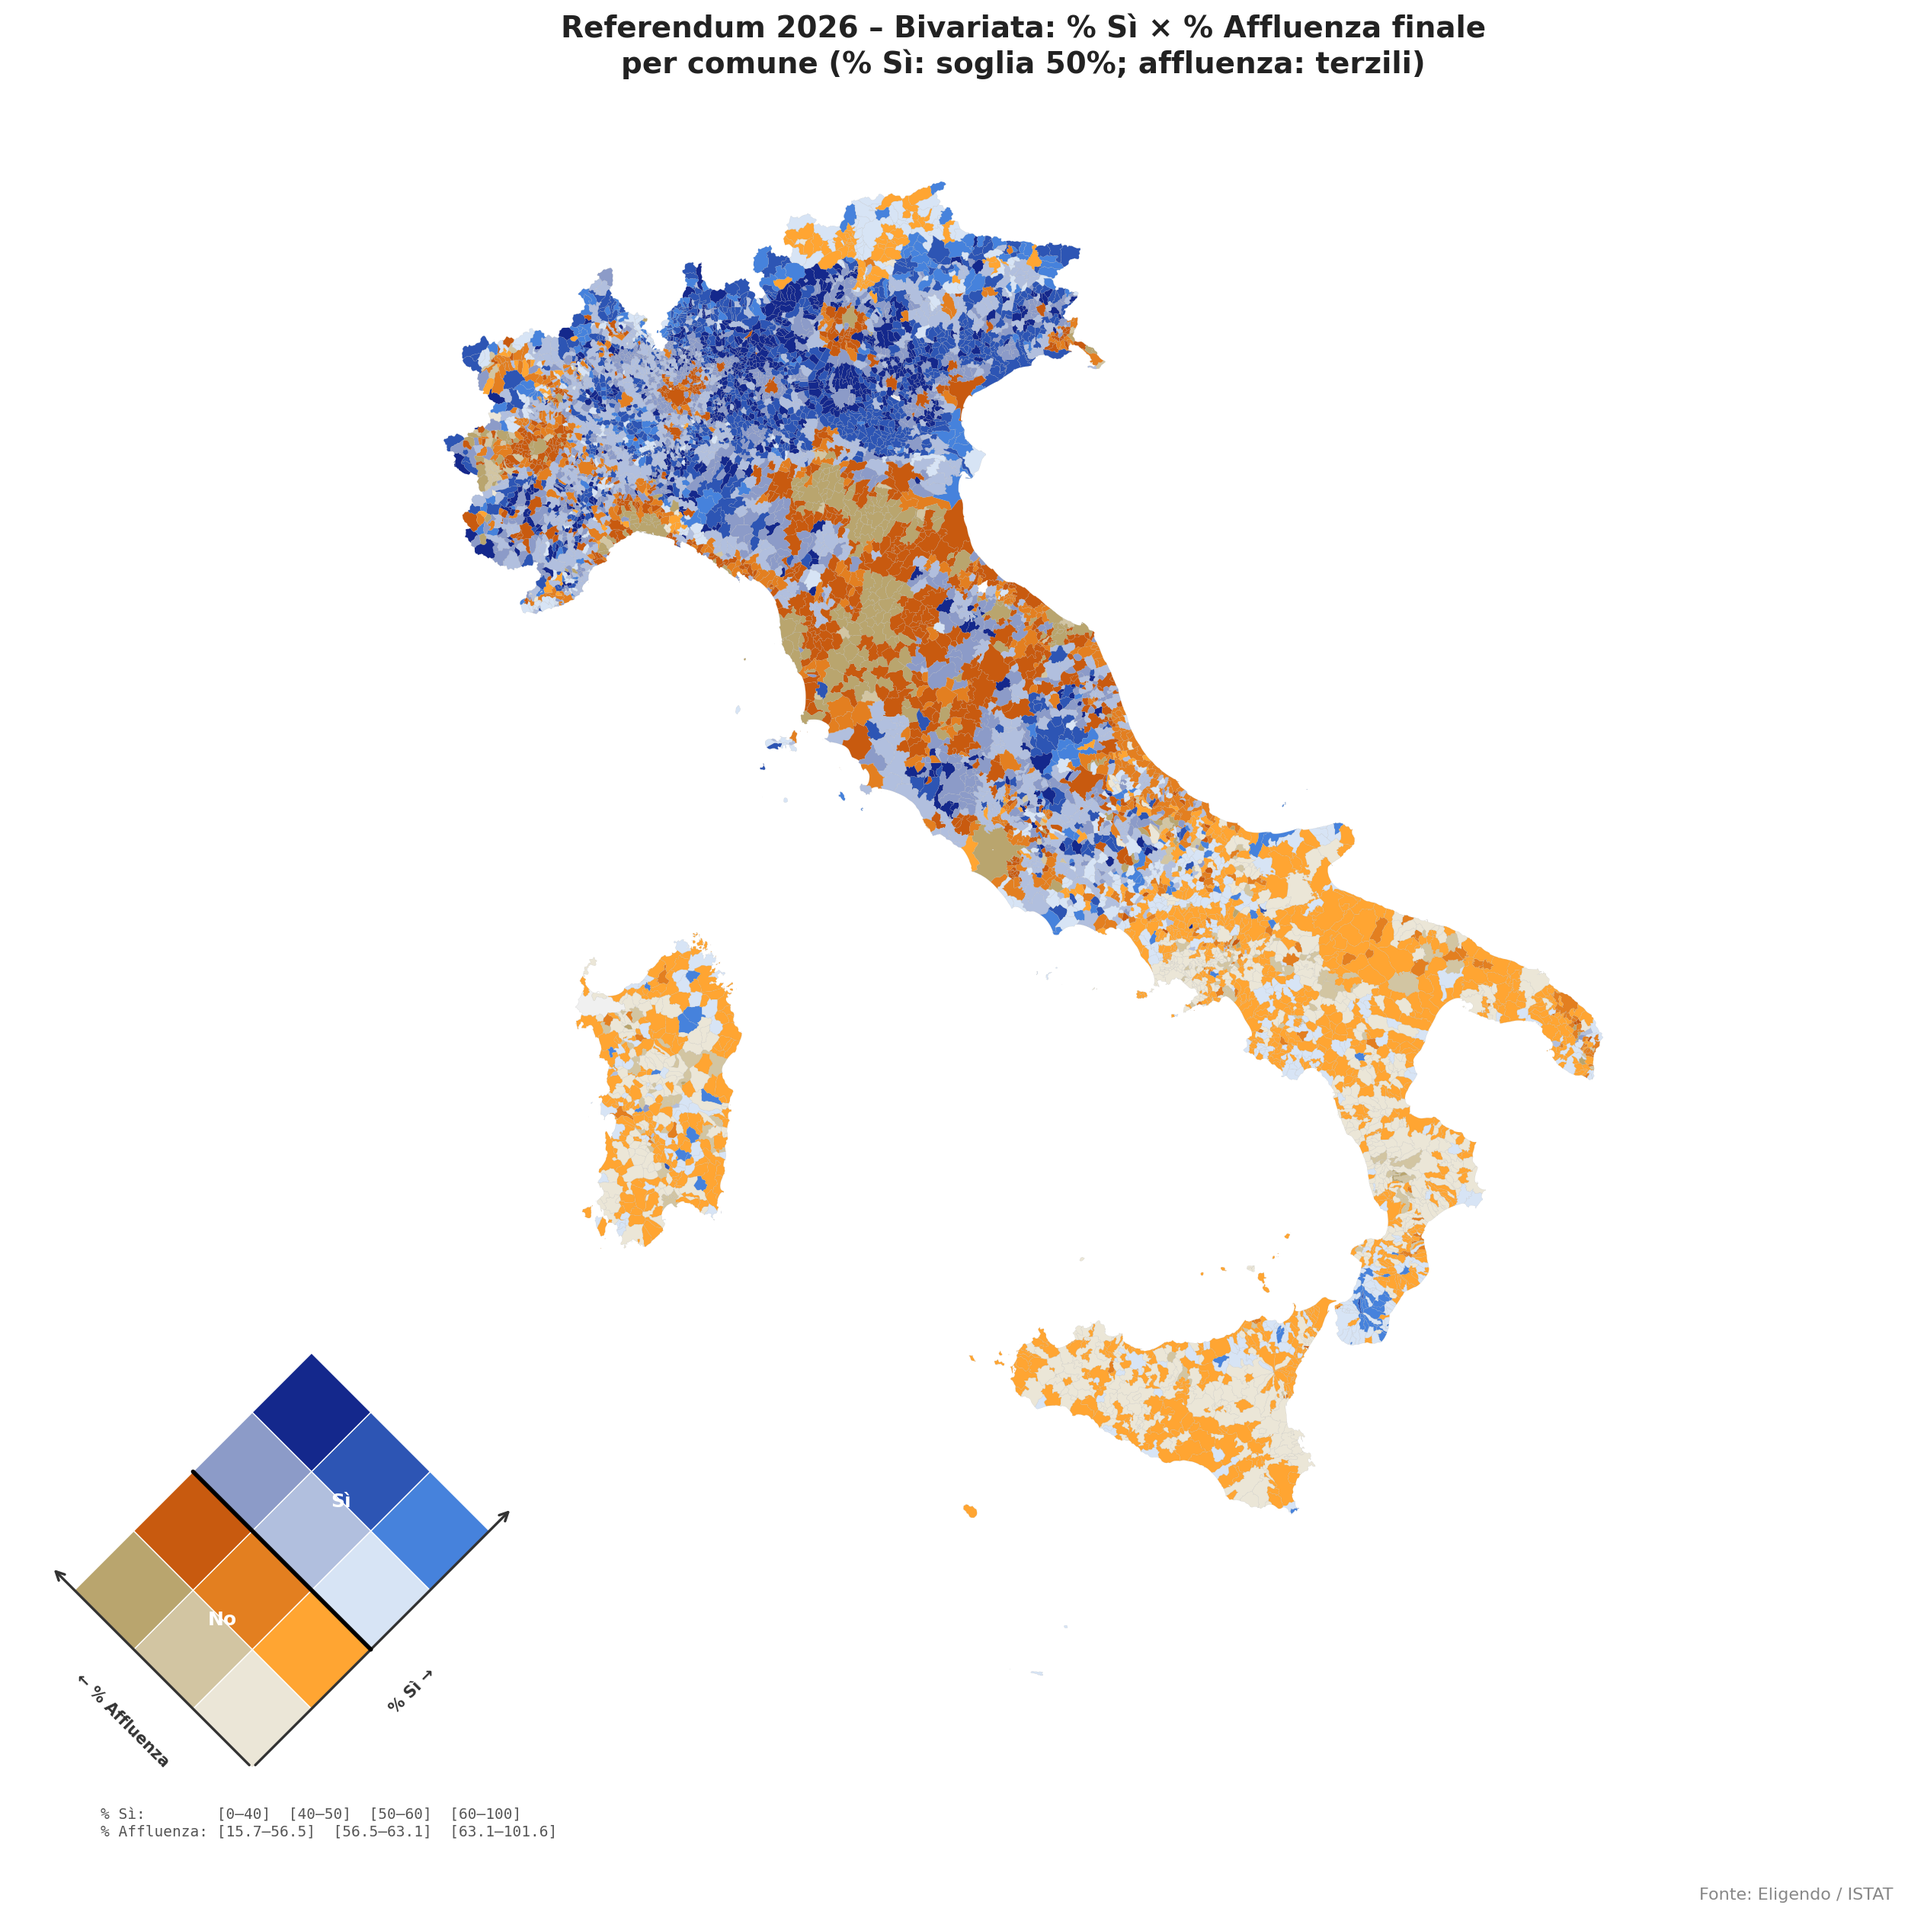
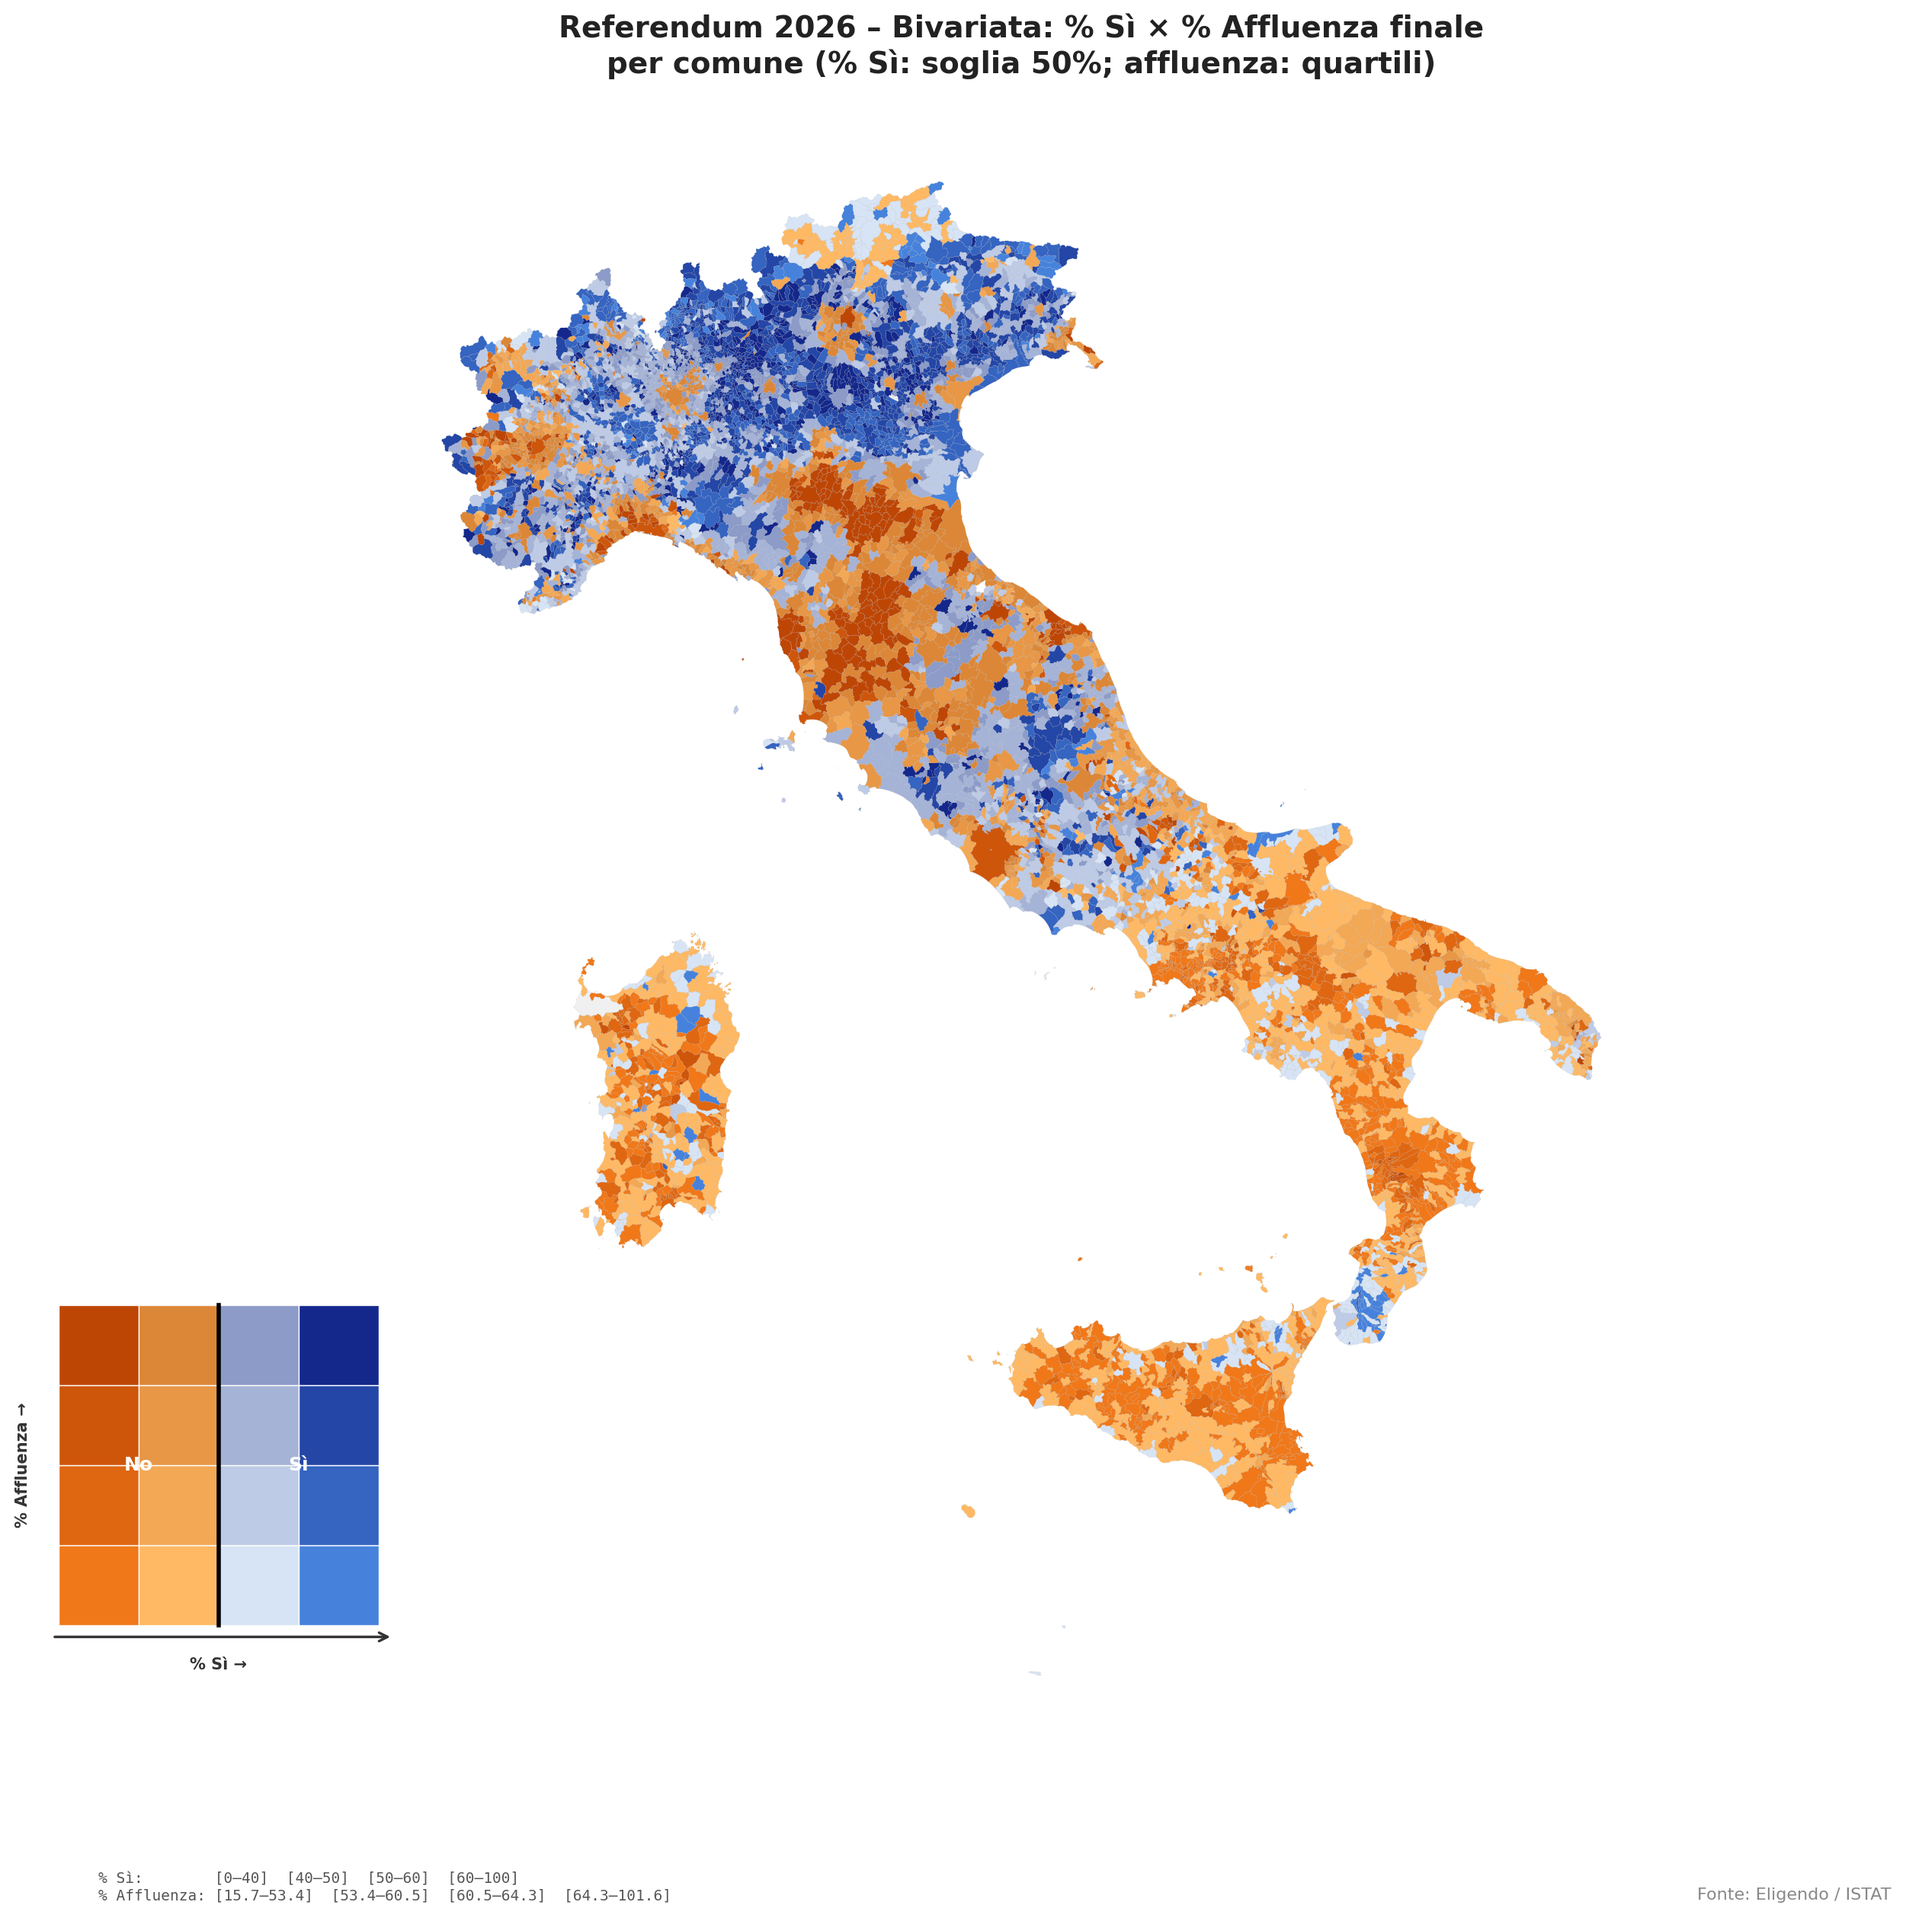
si50: legenda 4x4 ortogonale, No invertito, palette arancio
- N_VOT=4 (quartili affluenza)
- Legenda griglia allineata alla base
- No: ordine invertito (scuri fuori, chiari al centro)
- Palette No: toni arancio più saturi, no beige

diff --git a/mappe/bivariate/bivariate_map_si50.py b/mappe/bivariate/bivariate_map_si50.py
@@ -29,14 +29,14 @@ OUT      = pathlib.Path(__file__).parent / "bivariate_map_si50.png"
 N_SI      = 4
 BREAKS_SI = [0, 40, 50, 60, 100]
 
-# Classi % Affluenza: terzili
-N_VOT = 3
+# Classi % Affluenza: quartili
+N_VOT = 4
 
-# Palette "No" (i=0..1, % Sì < 50%): toni caldi giallo/arancio
-C_NO_00 = np.array([235, 230, 215])  # grigio caldo (basso si, bassa affl)
-C_NO_10 = np.array([255, 165,  50])  # arancio (alto si No, bassa affl)
-C_NO_01 = np.array([185, 165, 110])  # grigio scuro caldo (basso si, alta affl)
-C_NO_11 = np.array([200,  90,  15])  # arancio scuro (alto si No, alta affl)
+# Palette "No" (i=0..1, % Sì < 50%): toni caldi arancio
+C_NO_00 = np.array([255, 185, 100])  # arancio chiaro (basso si, bassa affl)
+C_NO_10 = np.array([240, 120,  25])  # arancio forte (alto si No, bassa affl)
+C_NO_01 = np.array([220, 135,  55])  # arancio medio (basso si, alta affl)
+C_NO_11 = np.array([190,  70,   5])  # arancio scuro (alto si No, alta affl)
 
 # Palette "Sì" (i=2..3, % Sì >= 50%): toni freddi blu
 C_SI_00 = np.array([215, 228, 245])  # grigio freddo (basso si Sì, bassa affl)
@@ -57,8 +57,8 @@ LABELS_VOT = [str(i + 1)  for i in range(N_VOT)]  # 1, 2, 3
 def bilinear(i, j):
     """Interpolazione bilineare separata per zona No (i<2) e Sì (i>=2)."""
     s = j / (N_VOT - 1)
-    if i < 2:  # zona No
-        t = i / 1.0
+    if i < 2:  # zona No – invertito: scuri fuori, chiari al centro (vicino al 50%)
+        t = 1.0 - i
         C00, C10, C01, C11 = C_NO_00, C_NO_10, C_NO_01, C_NO_11
     else:      # zona Sì
         t = (i - 2) / 1.0
@@ -116,57 +116,51 @@ fig.patch.set_facecolor('white')
 
 gdf.plot(ax=ax, color=gdf['color'], linewidth=0.05, edgecolor='#aaaaaa')
 
-# ── Legenda 45° (parallelogramma N_SI × N_VOT) ────────────────────────────────
-legend_ax = fig.add_axes([0.04, 0.06, 0.25, 0.25])
+# ── Legenda griglia N_SI × N_VOT ──────────────────────────────────────────────
+legend_ax = fig.add_axes([0.05, 0.15, 0.18, 0.18])
 legend_ax.set_aspect('equal')
 legend_ax.set_axis_off()
 
+cell = 1.0
 for i, col in enumerate(LABELS_SI):
     for j, row in enumerate(LABELS_VOT):
-        cx = float(i - j)
-        cy = float(i + j + 1)
-        corners = [(cx, cy - 1), (cx + 1, cy), (cx, cy + 1), (cx - 1, cy)]
-        legend_ax.add_patch(mpatches.Polygon(
-            corners, closed=True,
+        legend_ax.add_patch(mpatches.FancyBboxPatch(
+            (i * cell, j * cell), cell, cell,
+            boxstyle="square,pad=0",
             facecolor=COLORS[col + row],
             edgecolor='white', linewidth=0.5))
 
-# Linea nera divisoria No/Sì al 50% (bordo tra i=1 e i=2)
-# Punti condivisi: (2-j, 2+j) → (1-j, 3+j) per j=0..N_VOT-1
-x_div = [2, 2 - (N_VOT - 1) - 1]   # da (2,2) a (-1,5) per N_VOT=3
-y_div = [2, 2 + (N_VOT - 1) + 1]
-legend_ax.plot(x_div, y_div, color='black', linewidth=2,
-               solid_capstyle='round', zorder=5)
+# Linea verticale divisoria No/Sì tra i=1 e i=2
+legend_ax.plot([2, 2], [0, N_VOT], color='black', linewidth=2, zorder=5)
 
-# Etichette No/Sì sui due lati della linea
-legend_ax.text(-0.5, 2.5, 'No', ha='center', va='center',
+# Etichette No/Sì
+legend_ax.text(1.0, N_VOT / 2, 'No', ha='center', va='center',
                fontsize=9, color='white', fontweight='bold', zorder=6)
-legend_ax.text(1.5, 4.5, 'Sì', ha='center', va='center',
+legend_ax.text(3.0, N_VOT / 2, 'Sì', ha='center', va='center',
                fontsize=9, color='white', fontweight='bold', zorder=6)
 
-# range uguale su x e y per aspect='equal'
-legend_ax.set_xlim(-N_VOT - 1, N_SI + 1)           # range = N_SI + N_VOT + 2 = 9
-legend_ax.set_ylim(-1.5, N_SI + N_VOT + 0.5)       # range = 9
+legend_ax.set_xlim(-0.1, N_SI + 0.3)
+legend_ax.set_ylim(-0.5, N_VOT + 0.3)
 
 arrow_kw = dict(arrowstyle='->', color='#333333', lw=1.2)
-legend_ax.annotate('', xy=(N_SI + 0.4, N_SI + 0.4), xytext=(0, 0), arrowprops=arrow_kw)
-legend_ax.annotate('', xy=(-N_VOT - 0.4, N_VOT + 0.4), xytext=(0, 0), arrowprops=arrow_kw)
+legend_ax.annotate('', xy=(N_SI + 0.2, -0.15), xytext=(-0.1, -0.15), arrowprops=arrow_kw)
+legend_ax.annotate('', xy=(-0.15, N_VOT + 0.2), xytext=(-0.15, -0.1), arrowprops=arrow_kw)
 
-legend_ax.text(N_SI / 2 + 0.7, N_SI / 2 - 0.7, '% Sì →', ha='center', va='center',
-               fontsize=7.5, color='#333333', fontweight='bold', rotation=45)
-legend_ax.text(-N_VOT / 2 - 0.7, N_VOT / 2 - 0.7, '← % Affluenza', ha='center', va='center',
-               fontsize=7.5, color='#333333', fontweight='bold', rotation=-45)
+legend_ax.text(N_SI / 2, -0.4, '% Sì →', ha='center', va='top',
+               fontsize=7.5, color='#333333', fontweight='bold')
+legend_ax.text(-0.35, N_VOT / 2, '% Affluenza →', ha='right', va='center',
+               fontsize=7.5, color='#333333', fontweight='bold', rotation=90)
 
 # ── Titolo e note ─────────────────────────────────────────────────────────────
 titolo = TITOLO or (
     'Referendum 2026 – Bivariata: % Sì × % Affluenza finale\n'
-    'per comune (% Sì: soglia 50%; affluenza: terzili)'
+    'per comune (% Sì: soglia 50%; affluenza: quartili)'
 )
 ax.set_title(titolo, fontsize=14, fontweight='bold', pad=16, color='#222222')
 
 si_str  = '  '.join(f'[{BREAKS_SI[k]}–{BREAKS_SI[k+1]}]' for k in range(N_SI))
 vot_str = '  '.join(f'[{breaks_vot[k]}–{breaks_vot[k+1]}]' for k in range(N_VOT))
-fig.text(0.08, 0.07,
+fig.text(0.08, 0.04,
          f"% Sì:        {si_str}\n"
          f"% Affluenza: {vot_str}",
          fontsize=7, color='#555555', family='monospace')
